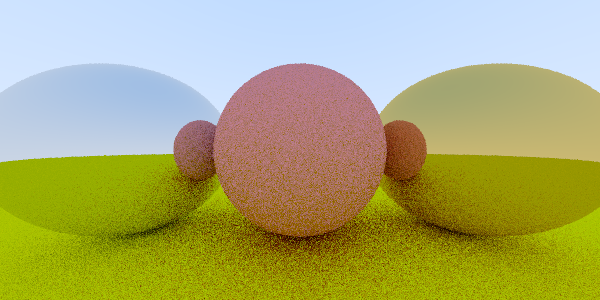
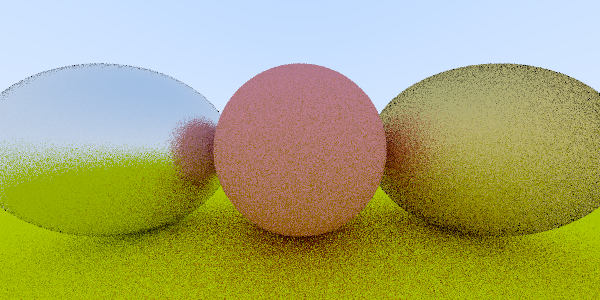
add roughness material param

diff --git a/tracer/tracer.cpp b/tracer/tracer.cpp
@@ -160,6 +160,7 @@ struct Material
 
 	Vec3f m_albedo;
 	ScatterFunc* m_scatterFunc;
+	float m_roughness;
 };
 
 struct Object
@@ -226,16 +227,23 @@ struct World
 		m_objects.emplace_back(object);
 	}
 
-	Material::ID addMaterial(Vec3f albedo, Material::ScatterFunc* scatterFunc)
+	void sanitizeMaterial(Material::ID id)
 	{
-		m_materials.push_back({ albedo, scatterFunc }); // TODO() Why cant we use emplace_back here ...
-		return  m_materials.size() - 1;
+		Material& material = m_materials[id];
+		material.m_roughness = fmin(material.m_roughness, 1.0f);
 	}
 
-	// As with everything, consider offering move here later.
-	Material::ID setDefaultMaterial(Vec3f albedo, Material::ScatterFunc* scatterFunc)
+	Material::ID addMaterial(const Material& material)
 	{
-		m_defaultMatID = addMaterial(albedo, scatterFunc);
+		m_materials.push_back(material); 
+		Material::ID id = m_materials.size() - 1;
+		sanitizeMaterial(id);
+		return id;
+	}
+
+	Material::ID setDefaultMaterial(const Material& material)
+	{
+		m_defaultMatID = addMaterial(material);
 		return m_defaultMatID;
 	}
 };
@@ -329,7 +337,7 @@ void scatterDiffuse(const Material& material, const Intersection& intersect, con
 void scatterMetal(const Material& material, const Intersection& intersect, const Ray& rayIn, Ray& rayOut, Vec3f& attenuation)
 {
 	Vec3f reflected = reflect(normalized(rayIn.m_direction), intersect.m_normal);
-	rayOut = { intersect.m_point, reflected };
+	rayOut = { intersect.m_point, reflected + material.m_roughness * randInUnitSphere() };
 
 	if (dot(rayOut.m_direction, intersect.m_normal) > 0)
 	{
@@ -360,10 +368,10 @@ int main()
 
 	World world;
 
-	Material::ID redDiffuse = world.setDefaultMaterial(Vec3f{ 0.8f, 0.3f, 0.3f }, &scatterDiffuse);
-	Material::ID yellowDiffuse = world.setDefaultMaterial(Vec3f{ 0.8f, 0.8f, 0.0f }, &scatterDiffuse);
-	Material::ID silver = world.setDefaultMaterial(Vec3f{ 0.8f, 0.8f, 0.8f }, &scatterMetal);
-	Material::ID gold = world.setDefaultMaterial(Vec3f{ 0.8f, 0.6f, 0.2f }, &scatterMetal);
+	Material::ID redDiffuse = world.setDefaultMaterial({ Vec3f{ 0.8f, 0.3f, 0.3f }, &scatterDiffuse });
+	Material::ID yellowDiffuse = world.setDefaultMaterial({ Vec3f{ 0.8f, 0.8f, 0.0f }, &scatterDiffuse });
+	Material::ID silver = world.setDefaultMaterial({ Vec3f{ 0.8f, 0.8f, 0.8f }, &scatterMetal , 0.3f});
+	Material::ID gold = world.setDefaultMaterial({ Vec3f{ 0.8f, 0.6f, 0.2f }, &scatterMetal, 1.0f});
 
 	world.addSphere(Vec3f{ 0.0f, 0.0f, -1.0f }, 0.5f, redDiffuse);
 	world.addSphere(Vec3f{ 0.0f, -100.5f, -1.0f }, 100.0f, yellowDiffuse);
